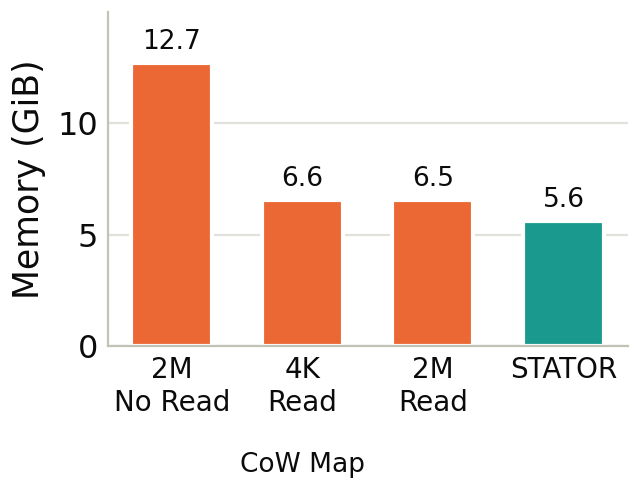
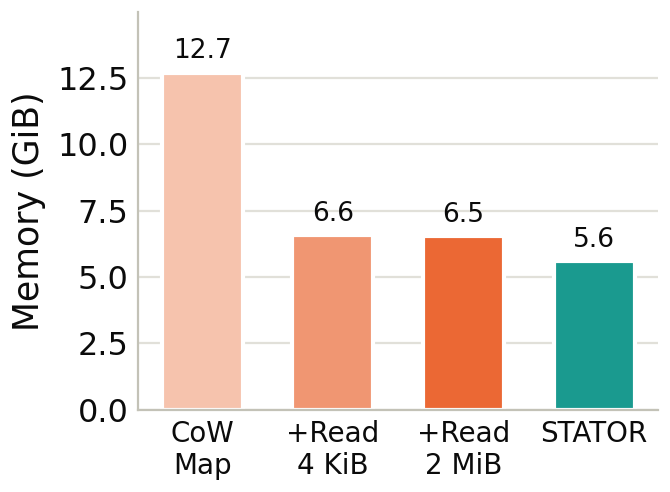
Draw the copy-on-write baseline as provided and with the read pass added

Changed region(s): [[0.0892, 0.0306, 0.9812, 0.9796], [0.0, 0.1224, 0.0892, 0.6735]]

diff --git a/figures/make_paper_figures.py b/figures/make_paper_figures.py
@@ -277,8 +277,10 @@ def mode():
 def cow():
     data = {(r["mode"], int(r["agents"])): r
             for r in rows("20261006-engine-kvcow-v1", "engine_kvcow_summary.csv")}
-    order = (("2M\nNo Read", "cow_noread", COW), ("4K\nRead", "cow_small", COW),
-             ("2M\nRead", "cow", COW), (NAME, "extent_lazy", OURS))
+    # the mapping as the kernel provides it, then with the CPU read pass added
+    # on each page size (darker as the baseline is tuned), then the extents
+    order = (("CoW\nMap", "cow_noread", "#f6c3ad"), ("+Read\n4 KiB", "cow_small", "#f09672"),
+             ("+Read\n2 MiB", "cow", COW), (NAME, "extent_lazy", OURS))
     for name, column, ylabel, scale, form in (
             ("eval_cow_mem", "memory_mib", "Memory (GiB)", 1024.0, "{:.1f}"),
             ("eval_cow_time", "suffix_ms", "Task Decoding (s)", 1000.0, "{:.2f}")):
@@ -288,10 +290,6 @@ def cow():
                       color=[c for _, _, c in order], edgecolor="white", linewidth=1.5)
         labels(ax, bars, form)
         ax.tick_params(axis="x", labelsize=TICK2)
-        # the three orange bars are the copy-on-write mapping by page size and CPU read
-        ax.annotate("CoW Map", (1, 0), xytext=(0, -38), textcoords="offset points", ha="center",
-                    va="top", fontsize=VALUE, color=INK, xycoords=("data", "axes fraction"),
-                    annotation_clip=False)
         finish(fig, ax, name, "", ylabel, max(values) * 1.18)
 
 
